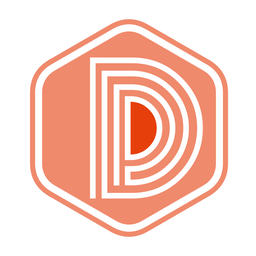
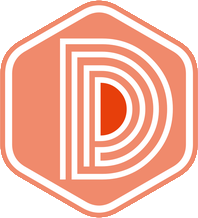
ajout des images pour l'eco

diff --git a/ecologique.html b/ecologique.html
@@ -52,13 +52,16 @@
         <header>
             <h1>L'enjeu <span>écologique</span> du Bitcoin</h1>
             <p>
-                Le sujet de l’impact écologique du bitcoin est très vaste et est souvent mal compris voire exagéré.
+                Le sujet de l’impact écologique du bitcoin est très vaste et est souvent mal compris voir exagéré.
                 Tentons de le développer dans cet article.
             </p>
         </header>
         <main>
             <section>
                 <h2>Les médias et le Bitcoin</h2>
+                <figure class="droite">
+                    <img src="img/ecologique/media-bitcoin.jpg" alt="">
+                </figure>
                 <p>
                     En 2016, 7 ans après sa création, le Bitcoin à pris un impact conséquent sur les marchés financiers,
                     attirant ainsi la curiosité et la <b>fascination des médias</b>. Comme nous l’avons vu, la
@@ -98,6 +101,12 @@
                     pourtant cela n’a pas empêché les médias du monde entier à prendre ces lignes d’articles comme
                     parole d’évangile.
                 </p>
+                <figure class="droite">
+                    <img src="img/ecologique/digiconomist.png" alt="">
+                    <figcaption>
+                        Le logo du <em>Digiconomist</em>
+                    </figcaption>
+                </figure>
                 <p>
                     Quelques personnes plus compétentes en la matière se sont alors mobilisés pour<b> refaire avec plus
                         de rigueurs les calculs</b> de la dépense énergétique du Bitcoin et les <b>résultats</b> sont
@@ -118,10 +127,11 @@
                 <h2>L'impact réel du Bitcoin</h2>
                 <p>
                     Des estimations plus précises ont été faites depuis, et on se retrouve alors avec des <b>chiffres
-                        bien plus raisonnables</b>. Marc Bevand nous donne une fourchette de 14 à 27 TWh/an (TWh :
-                    térawatts par heure, correspond à un milliard de kWh NDRL) pour la consommation en électricité du
-                    Bitcoin à comparer aux 26&nbsp;000 TWh d’électricité produite annuellement. Si l’on veut comparer la
-                    consommation en électricité du minage de Bitcoin à celle du minage de métaux, <a
+                        bien plus raisonnables</b>. <a href="https://blog.zorinaq.com/bitcoin-electricity-consumption/"
+                        target="_blank" rel="noopener">Marc Bevand</a> nous donne une fourchette de 14 à 27 TWh/an
+                    (TWh&nbsp;: térawatts par heure, correspond à un milliard de kWh NDRL) pour la consommation en
+                    électricité du Bitcoin à comparer aux 26&nbsp;000 TWh d’électricité produite annuellement. Si l’on
+                    veut comparer la consommation en électricité du minage de Bitcoin à celle du minage de métaux, <a
                         href="https://www.nature.com/articles/s41893-018-0152-7" target="_blank" rel="noopener">deux
                         chercheurs de Cincinnati</a> dans l’Ohio nous donnent une estimation <b>7 fois moins coûteuse en
                         électricité que l’aluminium et 3,5 fois moins coûteuse que l’or</b>. Pour la comparer à la
@@ -141,6 +151,13 @@
                     l’énergie hydroélectrique ce qui rendrait l’industrie du Bitcoin plus propre que la majorité des
                     autres industries.
                 </p>
+                <figure class="grande">
+                    <img src="img/ecologique/barrage.jpg" alt="">
+                    <figcaption>
+                        Ce serait des barrages comme celui-ci aux États-Unis qui fourniraient la majorité de l'énergie
+                        pour le minage de Bitcoin
+                    </figcaption>
+                </figure>
                 <p>
                     Malgré tous ces témoignages et ces voix infirmant le <em>Digiconomist</em>, le mal est fait et le
                     Bitcoin continuera de porter cette image de désastre écologique alors que nous l’avons vu, son
